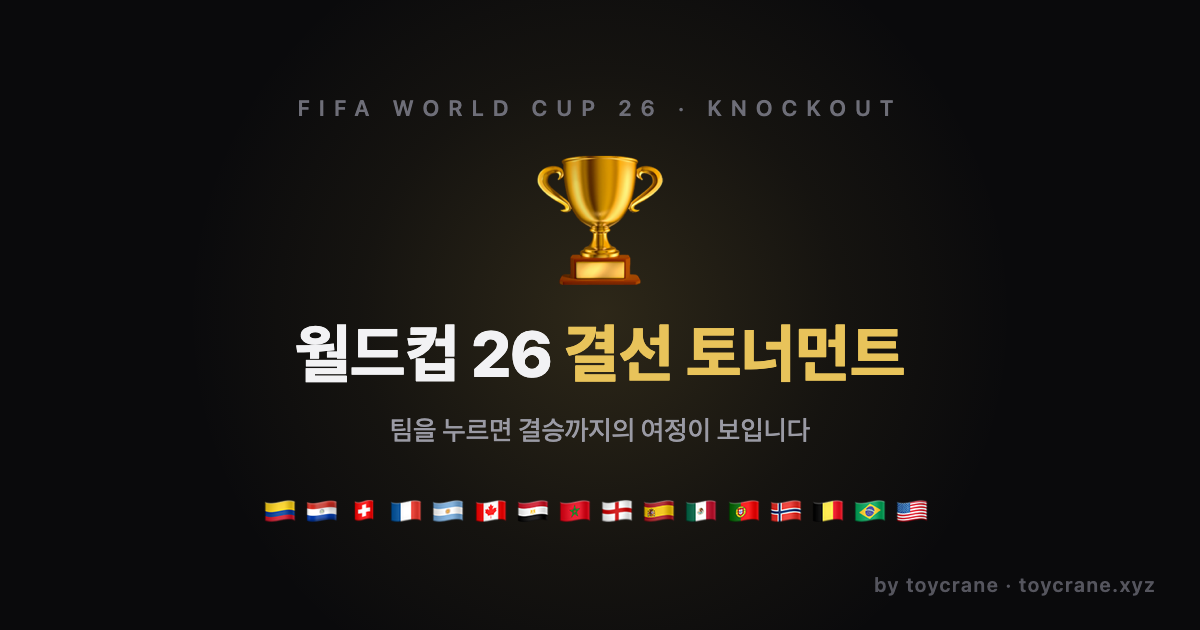
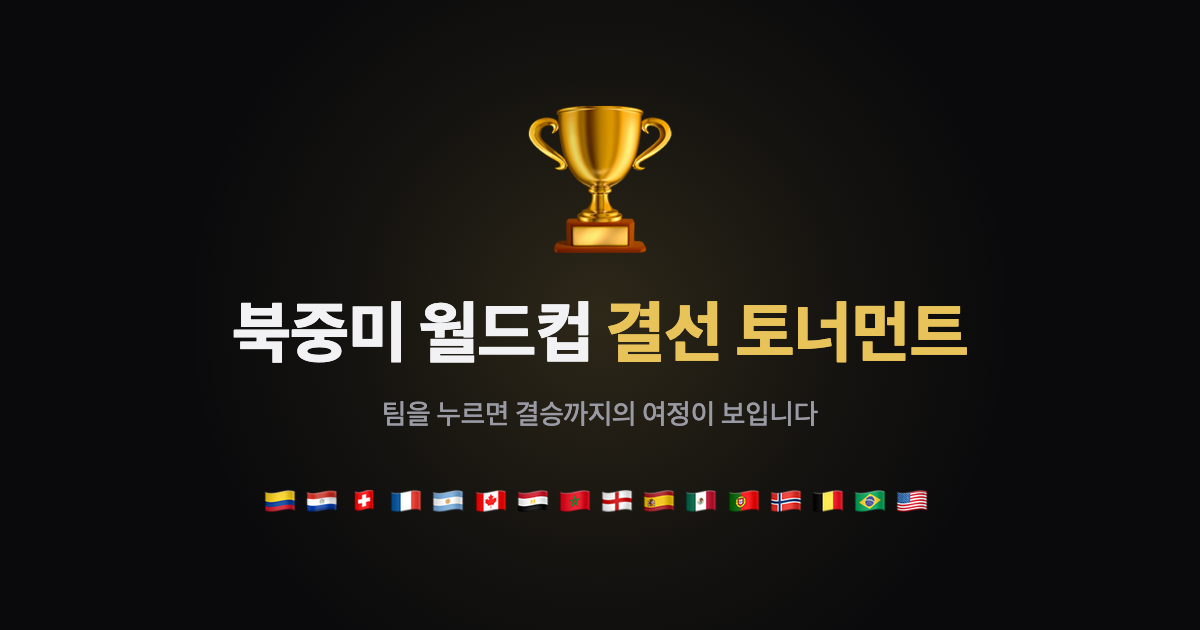
fix: 공유 문구를 북중미 월드컵으로 통일하고 엠대시 제거
- OG 이미지에서 영문 키커와 크레딧 레이블 제거
- 제목·설명·JSON-LD의 '월드컵 26'을 '북중미 월드컵'으로 변경
- 문구의 엠대시를 마침표로 교체

diff --git a/index.html b/index.html
@@ -4,33 +4,33 @@
   <meta charset="UTF-8" />
   <meta name="viewport" content="width=device-width, initial-scale=1.0, viewport-fit=cover" />
   <meta name="theme-color" content="#0A0A0C" />
-  <title>FIFA 월드컵 26 · 결선 토너먼트</title>
-  <meta name="description" content="2026 북중미 월드컵 결선 토너먼트 대진표 — 팀을 누르면 결승까지의 여정이 보입니다" />
+  <title>북중미 월드컵 결선 토너먼트</title>
+  <meta name="description" content="2026 북중미 월드컵 결선 토너먼트 대진표. 팀을 누르면 결승까지의 여정이 보입니다." />
   <link rel="canonical" href="https://worldcup-toycranes-projects.vercel.app/" />
   <link rel="icon" href="/favicon.svg" type="image/svg+xml" />
   <link rel="apple-touch-icon" href="/apple-touch-icon.png" />
 
   <meta property="og:type" content="website" />
   <meta property="og:locale" content="ko_KR" />
-  <meta property="og:site_name" content="FIFA 월드컵 26 결선 토너먼트" />
-  <meta property="og:title" content="FIFA 월드컵 26 · 결선 토너먼트 대진표" />
-  <meta property="og:description" content="팀을 누르면 결승까지의 여정이 보입니다 — 16강부터 결승까지 한눈에" />
+  <meta property="og:site_name" content="북중미 월드컵 결선 토너먼트" />
+  <meta property="og:title" content="북중미 월드컵 결선 토너먼트 대진표" />
+  <meta property="og:description" content="팀을 누르면 결승까지의 여정이 보입니다. 16강부터 결승까지 한눈에 확인하세요." />
   <meta property="og:url" content="https://worldcup-toycranes-projects.vercel.app/" />
   <meta property="og:image" content="https://worldcup-toycranes-projects.vercel.app/og.png" />
   <meta property="og:image:width" content="1200" />
   <meta property="og:image:height" content="630" />
-  <meta property="og:image:alt" content="트로피와 16개 참가국 국기가 그려진 월드컵 26 결선 토너먼트 대진표" />
+  <meta property="og:image:alt" content="트로피와 16개 참가국 국기가 그려진 북중미 월드컵 결선 토너먼트 대진표" />
 
   <meta name="twitter:card" content="summary_large_image" />
-  <meta name="twitter:title" content="FIFA 월드컵 26 · 결선 토너먼트 대진표" />
-  <meta name="twitter:description" content="팀을 누르면 결승까지의 여정이 보입니다 — 16강부터 결승까지 한눈에" />
+  <meta name="twitter:title" content="북중미 월드컵 결선 토너먼트 대진표" />
+  <meta name="twitter:description" content="팀을 누르면 결승까지의 여정이 보입니다. 16강부터 결승까지 한눈에 확인하세요." />
   <meta name="twitter:image" content="https://worldcup-toycranes-projects.vercel.app/og.png" />
 
   <script type="application/ld+json">
   {
     "@context": "https://schema.org",
     "@type": "WebSite",
-    "name": "FIFA 월드컵 26 결선 토너먼트",
+    "name": "북중미 월드컵 결선 토너먼트",
     "url": "https://worldcup-toycranes-projects.vercel.app/",
     "inLanguage": "ko",
     "author": { "@type": "Person", "name": "toycrane", "url": "https://toycrane.xyz" }